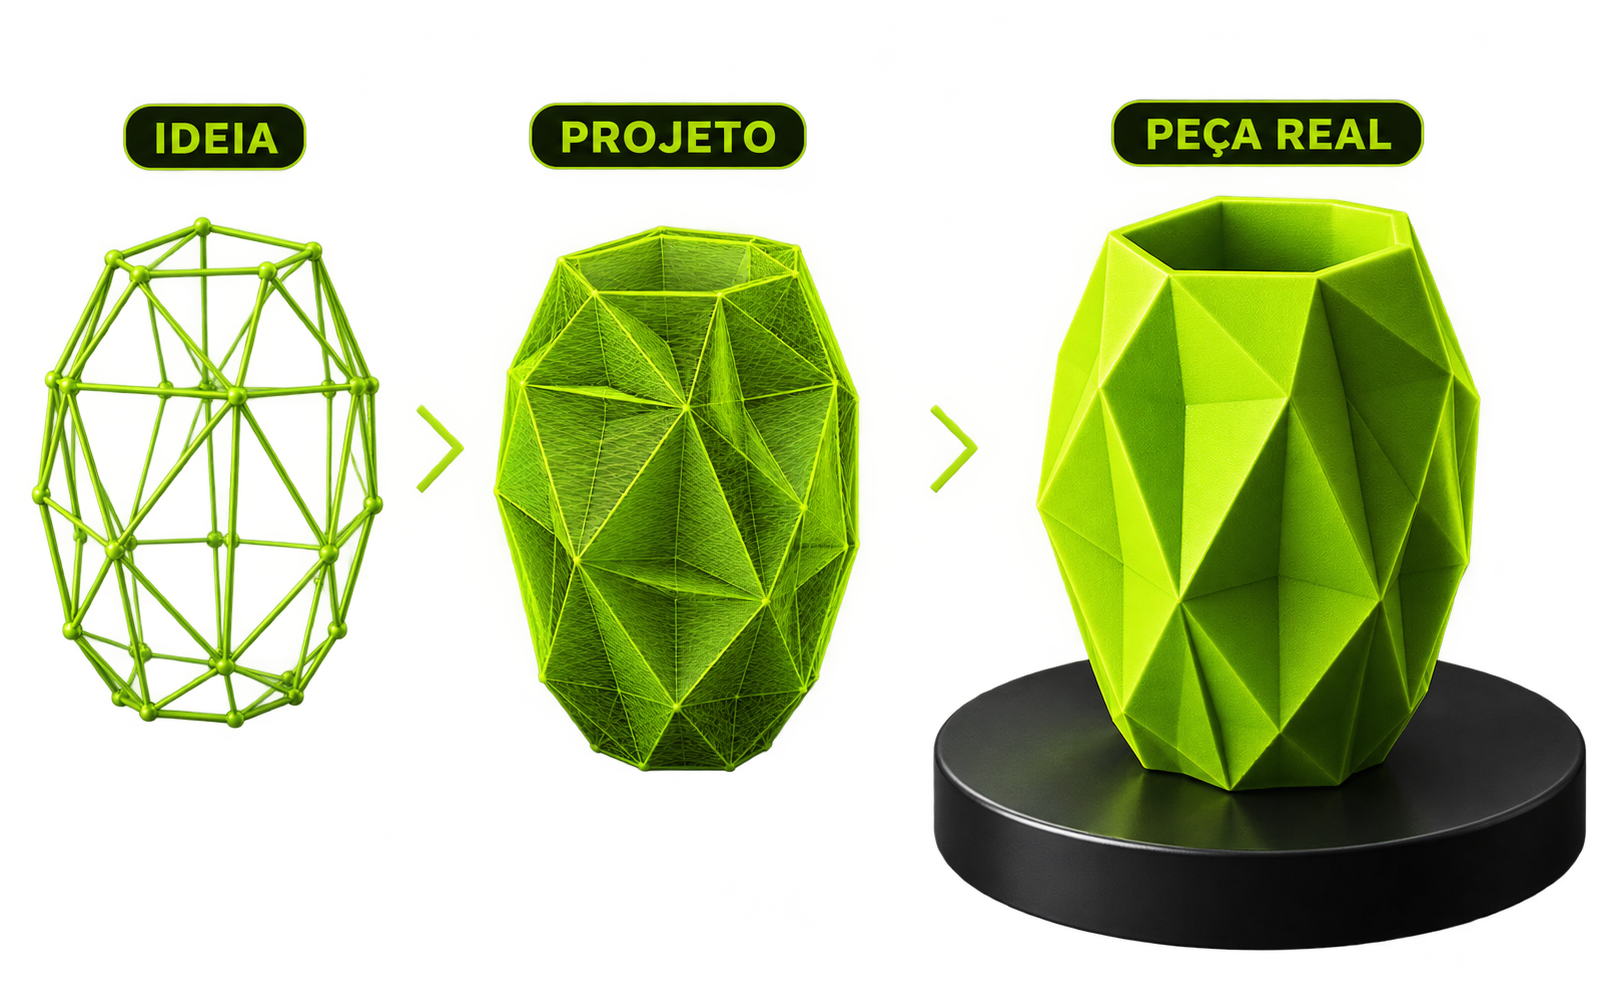
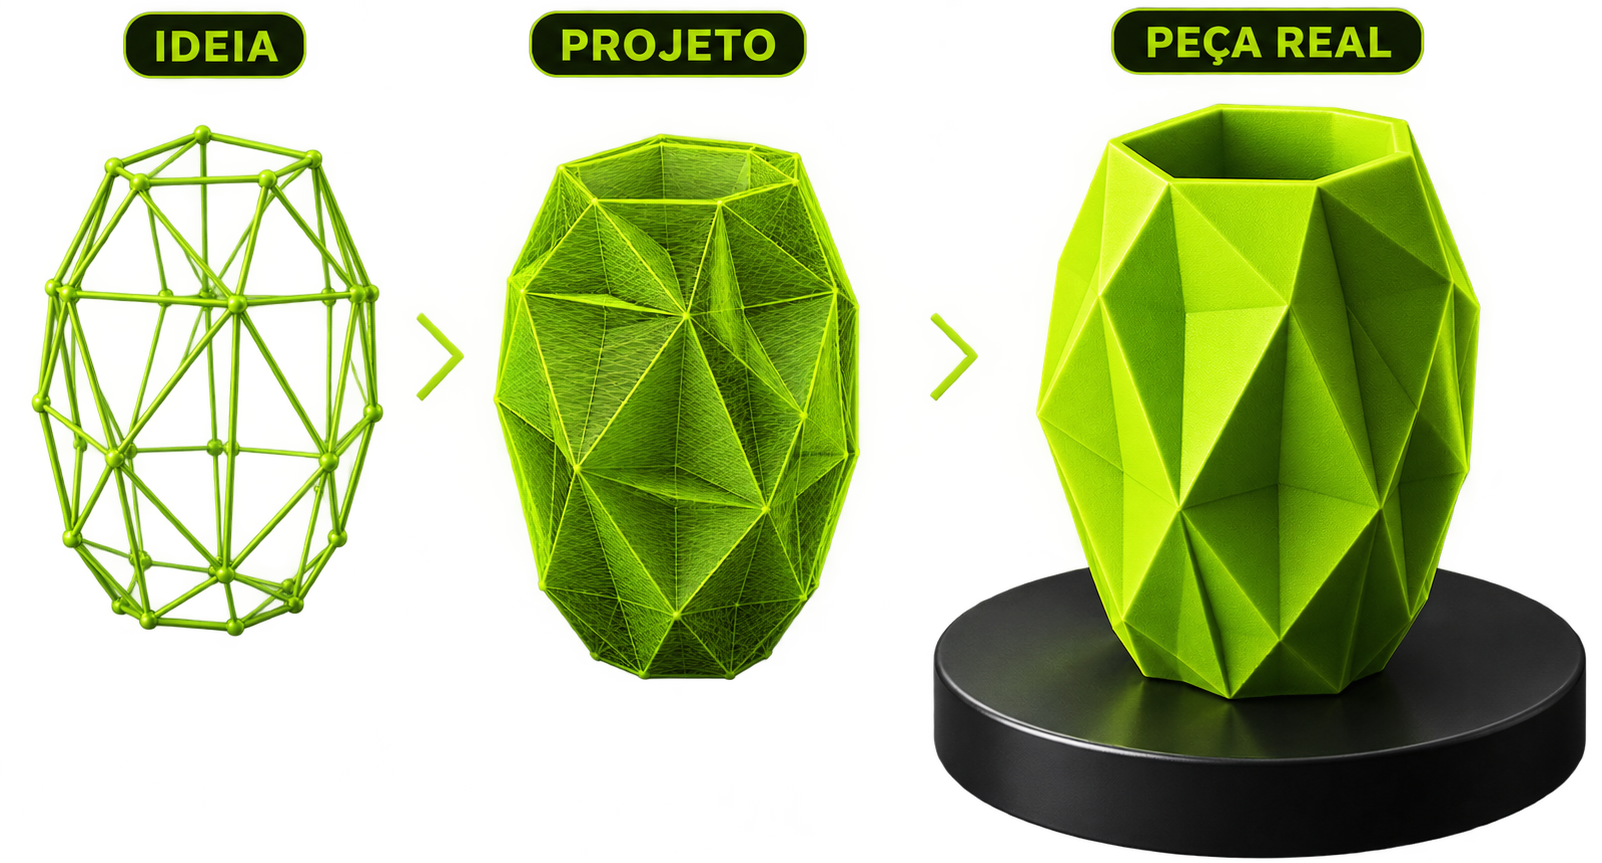
Compact "Como funciona" and essence CTA spacing on mobile
Switches the 5-step list to a 2-column grid below sm so the section
scrolls much shorter, and crops dead transparent padding out of the
idea-to-piece image so the gap before it reads as intentional instead
of a stray blank area.

diff --git a/src/app/(storefront)/page.tsx b/src/app/(storefront)/page.tsx
@@ -103,10 +103,13 @@ export default function Home() {
             title="Como funciona"
             className="mx-auto mb-14"
           />
-          <div className="flex w-full flex-col items-center gap-6 sm:flex-row sm:items-start sm:justify-center sm:gap-x-6 lg:gap-x-10">
+          <div className="grid grid-cols-2 gap-x-4 gap-y-8 sm:flex sm:w-full sm:flex-row sm:items-start sm:justify-center sm:gap-x-6 lg:gap-x-10">
             {STEPS.map((step, i) => (
-              <div key={step.n} className="flex items-start gap-3">
-                <div className="w-40 text-center sm:w-52">
+              <div
+                key={step.n}
+                className={`flex items-start justify-center gap-3 ${i === STEPS.length - 1 ? "col-span-2" : ""}`}
+              >
+                <div className="w-32 text-center sm:w-52">
                   <div className="mx-auto flex h-8 w-8 items-center justify-center rounded-full border border-petrol/50 font-display text-sm font-bold text-petrol sm:h-10 sm:w-10 sm:text-base">
                     {step.n}
                   </div>
@@ -133,7 +136,7 @@ export default function Home() {
             ))}
           </div>
 
-          <div className="mt-20 grid grid-cols-1 items-center gap-12 border-t border-paper/10 pt-16 lg:grid-cols-2 lg:gap-16">
+          <div className="mt-20 grid grid-cols-1 items-center gap-8 border-t border-paper/10 pt-16 lg:grid-cols-2 lg:gap-16">
             <div>
               <p className="label-caps flex items-center gap-2 text-xs text-petrol">
                 <span aria-hidden>▸</span> Não encontrou o que procurava?
